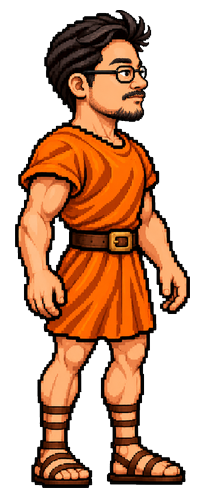
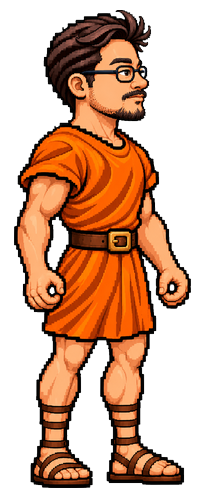
Potes aux poings fermés : les armes passent dans le poing dessiné
- Nouveaux sprites des 8 potes avec poings fermés, trou du poing rendu transparent
- FISTS : position mesurée des deux poings de chaque perso ; l'arme y est dessinée
  derrière les doigts, le faux poing ajouté est supprimé pour les potes
- Cestes posés sur le poing, chope tenue par l'anse, filet, boucliers recalés sur la main arrière
- ASSET_V passé à v=4

Claude-Session: https://claude.ai/code/session_01KAPrrVq5fSLyxcSHdi6H6B

diff --git a/index.html b/index.html
@@ -721,7 +721,7 @@ function drawGlad(c, x, y, dir, L, st={}){
 /* ============ SPRITES DES POTES ============ */
 // version des images : à augmenter quand une image est remplacée sous le même nom,
 // pour que les navigateurs ne ressortent pas l'ancienne de leur cache
-const ASSET_V = '?v=3';
+const ASSET_V = '?v=4';
 const SPR = {};
 const SPR_AX = 100, SPR_AY = 488, SPR_H = 478;   // ancre = entre les pieds
 function loadSprites(cb){
@@ -759,14 +759,14 @@ const WEAR = {
   jambieres:{x:-66, y:-116, w:130},
   plastron:{x:-66, y:-364, w:122},
   manica:{x:-84, y:-292, h:100},
-  filet:{x:-112, y:-236, w:100},
+  filet:{x:-100, y:-232, w:100},
   'bouclier-bois':{cx:-58, cy:-262, h:205},
   'bouclier-pointes':{cx:-52, cy:-262, h:205},
   egide:{cx:-58, cy:-262, h:205},
   scutum:{cx:-58, cy:-262, h:225},
   'tunique-cuir':{x:-70, y:-366, w:134},
   galerus:{x:-100, y:-420, h:92},
-  chope:{cx:-62, cy:-200, w:84},
+  chope:{cx:-74, cy:-206, w:84, flip:1},
   casque:{x:-78, y:-522, w:148},
   'peau-lion':{x:-126, y:-520, w:214},
   laurier:{cx:-2, cy:-450, w:118},
@@ -948,8 +948,16 @@ const RIG_PERSO = {
          legB:[[0,338],[102,338],[102,490],[0,490]],
          legF:[[102,338],[204,338],[204,490],[102,490]] },
   piv:{head:[0,-366], armB:[-60,-350], armF:[62,-350], legB:[-25,-150], legF:[25,-150]},
-  hand:[78,-196], probe:[100,190], fill:[[56,126],[72,126],[72,300],[56,300]], skin:[150,170,40,90]
+  hand:[78,-196], probe:[100,190], fill:[[56,126],[72,126],[72,300],[56,300]], skin:[150,170,40,90],
+  fist:true   // poings fermés dessinés : l'arme passe dans le trou du poing, pas de poing ajouté
 };
+// centre du trou de chaque poing, en pixels du sprite (f = main de l'arme, b = main du bouclier)
+const FISTS = {
+  darkkus:{f:[171,287], b:[51,289]}, fredhus:{f:[175,285], b:[50,287]}, sweevus:{f:[174,285], b:[47,285]},
+  chelmacus:{f:[172,288], b:[52,291]}, dridricus:{f:[173,283], b:[37,283]}, kubenicus:{f:[171,287], b:[50,288]},
+  maximusrr:{f:[167,255], b:[43,257]}, beelgraalus:{f:[173,285], b:[48,289]}
+};
+const FIST_B0 = [-50,-200];   // main arrière de référence pour WEAR (boucliers, filet, chope)
 // adversaires : proportions réalistes (tête plus petite, bras plus longs, bassin plus haut)
 const RIG_ENEMY = {
   poly:{ head:[[0,0],[204,0],[204,124],[0,124]],
@@ -991,7 +999,10 @@ function buildParts(img, rig=RIG_PERSO){
 
 function drawSpriteGlad(c, x, y, dir, L, st={}){
   const S = SPR[L.sprite], flash = (st.flash||0) > 0, sc = st.scale||1;
-  const PIV = S.rig.piv, HD = S.rig.hand, hdx = HD[0]-72, hdy = HD[1]+185;
+  const PIV = S.rig.piv, FI = S.rig.fist && FISTS[L.sprite];
+  const HD = FI ? [FI.f[0]-SPR_AX, FI.f[1]-SPR_AY] : S.rig.hand;
+  // décalage de la main arrière de ce perso par rapport à la référence de WEAR
+  const BD = FI ? [FI.b[0]-SPR_AX-FIST_B0[0], FI.b[1]-SPR_AY-FIST_B0[1]] : [0,0];
   // les adversaires dessinés portent déjà leur tenue : seuls l'arme, le bouclier et le filet s'ajoutent
   if(S.rig === RIG_ENEMY) L = Object.assign({}, L, {helmet:0, chest:0, cuir:0, greaves:0, manica:0, galerus:0, lion:0, emperor:0, chope:0});
   const G = getGear(L);
@@ -1042,13 +1053,16 @@ function drawSpriteGlad(c, x, y, dir, L, st={}){
   });
   // bras arrière + bouclier / filet
   at(PIV.armB, P.armB, ()=>{
+    const shImg = {bois:'bouclier-bois', pointes:'bouclier-pointes', egide:'egide', scutum:'scutum'}[L.shield];
+    const inHand = fn=>{ c.save(); c.translate(BD[0],BD[1]); fn(); c.restore(); };
+    // tenus dans le poing : dessinés avant le bras pour que les doigts passent devant
+    if(FI){ if(L.net) inHand(()=>wear(c,'filet',flash)); if(!shImg && L.chope) inHand(()=>wear(c,'chope',flash)); }
     img(PT.armB);
     if(L.manica) wear(c,'manica',flash);
     if(L.galerus) wear(c,'galerus',flash);
-    if(L.net) wear(c,'filet',flash);
-    const shImg = {bois:'bouclier-bois', pointes:'bouclier-pointes', egide:'egide', scutum:'scutum'}[L.shield];
-    if(shImg) wear(c,shImg,flash);
-    else if(L.chope) wear(c,'chope',flash);
+    if(!FI && L.net) wear(c,'filet',flash);
+    if(shImg) inHand(()=>wear(c,shImg,flash));
+    else if(!FI && L.chope) wear(c,'chope',flash);
   });
   // traînée de l'arme
   if(P.trail && !flash){
@@ -1064,6 +1078,16 @@ function drawSpriteGlad(c, x, y, dir, L, st={}){
   }
   // bras avant + arme
   at(PIV.armF, P.armF, ()=>{
+    if(FI){
+      // l'arme passe derrière les doigts, visible dans le trou du poing ; les cestes, eux, habillent le poing
+      if(L.weapon === 'cestes'){
+        img(PT.armF);
+        const it = IMG.cestes;
+        if(it){ const h = 74, w = h*it.n.width/it.n.height; c.save(); c.translate(HD[0],HD[1]); c.rotate(P.wpn); c.drawImage(flash?it.w:it.n, -w*0.45, -h*0.55, w, h); c.restore(); }
+        return;
+      }
+      if(!polearm) weapon(); img(PT.armF); return;
+    }
     img(PT.armF);
     if(!polearm) weapon();
     // poing incliné dans l'axe de l'arme (45°) et qui suit sa rotation

diff --git a/CLAUDE.md b/CLAUDE.md
@@ -113,6 +113,7 @@ Tous les sprites humains font **204×490 px**, personnage de face, pieds en bas.
 
 Deux découpes :
 - **`RIG_PERSO`** (les 8 potes, proportions réalistes comme les adversaires) : tête 0–122, bras 122–315, jambes 338–490 (sous l'ourlet de la tunique, pour qu'elle ne se coupe pas quand les jambes bougent).
+- **Poings des potes** (`RIG_PERSO.fist`) : les 8 sprites ont les poings fermés et vides, avec un trou transparent. `FISTS[id]` donne le centre de chaque trou en pixels du sprite (`f` main de l'arme, `b` main du bouclier). L'arme est dessinée à `FISTS.f`, **avant** le bras avant, pour que le manche passe derrière les doigts ; pas de poing ajouté (`getFist` ne sert plus qu'aux adversaires, mains ouvertes). Les cestes sont posés par-dessus le poing. Boucliers, filet et chope sont décalés de `FISTS.b − FIST_B0` ; filet et chope sont dessinés avant le bras arrière. Nouveau sprite de pote → mesurer ses deux trous et compléter `FISTS`.
 - **`RIG_ENEMY`** (adversaires) : tête 0–124, bras 124–312, jambes 300–490 (pagne court).
 - `PART_POLY` / `PIV` sont l'ancienne découpe « grosse tête », gardée seulement comme valeur par défaut de `buildParts`.
 
@@ -158,7 +159,7 @@ Pour l'interface, `augArt(g)` montre l'image d'objet (`AUG_IMG[id]` ou `WEAPON_O
 - Pièce portée : régler `WEAR` en repère relatif (origine entre les pieds, y négatif vers le haut) et vérifier sur un perso **et** sur l'écran de sélection, en pose de repos et en attaque.
 
 ### Un gladiateur jouable
-1. Sprite `assets/persos/<id>.png` **exactement 204×490**, mêmes proportions que les 8 autres pour que `RIG_PERSO` le découpe correctement (tête au-dessus de 122, bras libres du torse jusqu'à 315, tunique terminée avant 338, tunique au pixel `probe` (100, 190), peau visible dans la zone `skin`). Les 8 sprites actuels ont été générés avec le même prompt que les adversaires (pose de 3/4 vers la droite, mains vides, sans casque ni armure), puis détourés et ramenés à 478 px de haut, pieds à y = 488.
+1. Sprite `assets/persos/<id>.png` **exactement 204×490**, mêmes proportions que les 8 autres pour que `RIG_PERSO` le découpe correctement (tête au-dessus de 122, bras libres du torse jusqu'à 315, tunique terminée avant 338, tunique au pixel `probe` (100, 190), peau visible dans la zone `skin`). Les 8 sprites actuels ont été générés avec le même prompt que les adversaires (pose de 3/4 vers la droite, poings fermés vides « as if gripping an invisible vertical pole, with a clear empty hole through each fist », sans casque ni armure), puis détourés et ramenés à 478 px de haut, pieds à y = 488.
 2. Entrée dans `CHARS` (`id` = nom du fichier, stats, `desc` qui décrit fidèlement le passif, `look.sprite = id`, arme de départ).
 3. Entrée dans `SPECIALS` et `case` dans `doSpecial` ; tout nouveau buff temporisé doit être ajouté à `resetRuntime`, au décompte dans `step` et à `drawBuffAura`.
 4. Il faut toujours au moins `NB_ACTS` (7) autres persos pour remplir les boss.
